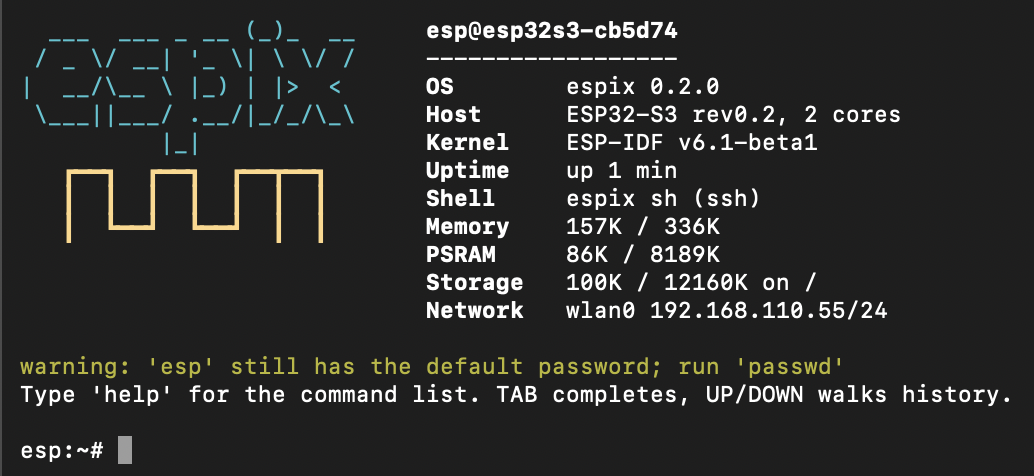
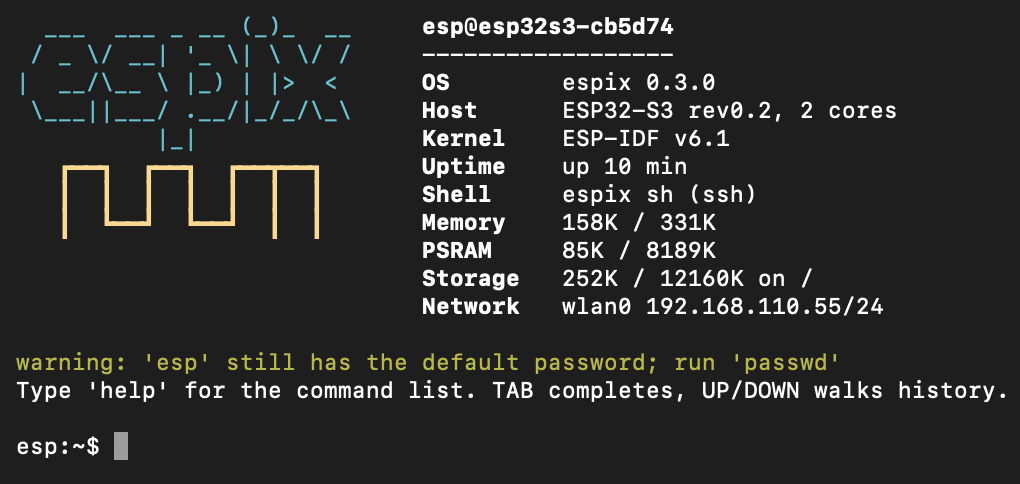
espix 0.3.0, on ESP-IDF v6.1
The upgrade itself was uneventful in the ways that count: sdkconfig regenerated
byte-identical across all thirteen CONFIG_ESPIX_* values, dependencies.lock
unchanged, the littlefs patch still applying, and no espix warnings. All three
registry components were already pinned at their newest published release, so
nothing moved under us there either.

The one thing the plan did not anticipate: the firmware build failed, and the
apps were why. Each project under apps/ is a separate IDF project with its own
build/ and sdkconfig, and `idf.py fullclean` does not reach them -- the error
names the version mismatch but not where it lives. That is now in README's
*Updating later* with the two-line fix, since it will bite anyone who upgrades.

The beta1-to-v6.1 changelog was read rather than guessed at, which settled the
question the upgrade actually raises: no VFS chmod hook was added, no chmod()
fix, no LittleFS changes at all, no adjtime() fix, nothing on the signal
vocabulary. Every UPSTREAM.md workaround stands, and the file now says so with
the evidence.

Two changelog lines were worth testing rather than assuming, and both are clean:
the PSA crypto driver hardening (the SSH server is entirely PSA, and /etc/passwd
on the device was hashed by the *old* build -- that hash still verifies), and
the libc stdio file-descriptor mapping fix (an app's printf still reaches the
SSH client, kernel logs still reach serial -- opposite directions through the
same mechanism).
[…]

diff --git a/components/espix_time/include/espix_time.h b/components/espix_time/include/espix_time.h
@@ -84,8 +84,9 @@ size_t espix_time_zone(char *buf, size_t len);
 
 /*
  * Change the timezone, optionally writing it to /etc/timezone so it survives a
- * reboot. `tz` is a POSIX TZ string, not a zoneinfo name -- see the comment in
- * the shipped /etc/timezone.
+ * reboot -- the file does not exist until then, and the compiled-in default is
+ * UTC. `tz` is a POSIX TZ string, not a zoneinfo name; `timedatectl
+ * set-timezone` with no argument documents the format.
  */
 esp_err_t espix_time_set_zone(const char *tz, bool persist);
 

diff --git a/components/espix_kernel/include/espix_kernel.h b/components/espix_kernel/include/espix_kernel.h
@@ -18,7 +18,7 @@ extern "C" {
 #endif
 
 #define ESPIX_VERSION_MAJOR 0
-#define ESPIX_VERSION_MINOR 2
+#define ESPIX_VERSION_MINOR 3
 #define ESPIX_VERSION_PATCH 0
 
 /*

diff --git a/README.md b/README.md
@@ -22,7 +22,7 @@ and [UPSTREAM.md](docs/UPSTREAM.md) for defects that belong to ESP-IDF.
 ## Status
 
 Early, but running on hardware. Verified on an ESP32-S3 (16MB flash, 8MB octal
-PSRAM) with ESP-IDF v6.1-beta1: LittleFS mounted as the real `/`, a
+PSRAM) with ESP-IDF v6.1: LittleFS mounted as the real `/`, a
 transport-agnostic shell with 37 commands, a process table, and — the point of
 the exercise — an app cross-compiled on a PC, copied over as a file, and loaded
 and executed at runtime with argv and an exit status.
@@ -38,11 +38,12 @@ picture of what is and is not implemented, see the
 
 ## Getting started
 
-**Requires ESP-IDF v6.1**, checked out by tag. It is still a beta, so a fresh
-`install.sh` gives you 5.x or 6.0 unless you ask for it — and those will not
-work: espix's SSH and password hashing are written against PSA Crypto, which
-arrives with Mbed TLS 4.x in 6.1. Older releases are refused up front rather
-than failing halfway through a compile.
+**Requires ESP-IDF v6.1**, checked out by tag. Older releases will not work:
+espix's SSH and password hashing are written against PSA Crypto, which arrives
+with Mbed TLS 4.x in 6.1, and `espix_kernel` names `CHIP_ESP32S31`, added in the
+same release. `main/idf_component.yml` declares `idf: ">=6.1"`, so an older one
+is refused with a single clear line rather than failing halfway through a
+compile.
 
 ```bash
 . $IDF_PATH/export.sh
@@ -75,6 +76,20 @@ idf.py -p /dev/ttyUSB0 storage-flash    # WARNING: replaces the whole rootfs
 
 Keeping them separate is deliberate: reflashing firmware should not destroy what
 is on the device.
+
+**After changing ESP-IDF versions, clean twice.** `idf.py fullclean` covers the
+firmware, but each project under `apps/` is a *separate* IDF project with its
+own `build/` and `sdkconfig`, and they are not reached by it:
+
+```bash
+idf.py fullclean && rm -f sdkconfig
+rm -rf apps/*/build apps/*/sdkconfig
+```
+
+Without the second line the app build fails with `'.../python/vX/venv/bin/python'
+is currently active while the project was configured with '.../vY/...'`, which
+names the problem but not where it lives. Both `sdkconfig` files are generated
+from the tracked `sdkconfig.defaults*`, so deleting them loses nothing.
 
 ### Board variants
 
@@ -173,9 +188,13 @@ inside that window — and is the sort of thing worth reading the reasoning on
 before changing it; see **Networking and time** in
 [docs/ROADMAP.md](docs/ROADMAP.md#networking-and-time).
 
-`/etc/timezone` holds a **POSIX TZ string**, not a zoneinfo name — espix ships
-no tzdata, so the rules live in the string: `SAST-2`, `EST5EDT,M3.2.0,M11.1.0`,
-or `UTC0` (the offset is not optional). `timedatectl set-timezone` writes it.
+**The default zone is UTC**, and there is no `/etc/timezone` until you set one —
+`timedatectl set-timezone` writes the file, the same way `wifi connect` writes
+`/etc/wifi.conf`. It holds a **POSIX TZ string**, not a zoneinfo name, because
+espix ships no tzdata and the rules have to live in the string: `SAST-2`,
+`EST5EDT,M3.2.0,M11.1.0`, or `UTC0` (the offset is not optional). Run
+`timedatectl set-timezone` with no argument for the format, including why the
+sign is inverted.
 
 ### Copying files on and off
 

diff --git a/docs/UPSTREAM.md b/docs/UPSTREAM.md
@@ -7,7 +7,12 @@ someone else's to fix, and a future IDF release may remove the need for the
 workaround — at which point it is useful to know exactly what the workaround was
 for.
 
-Verified against ESP-IDF v6.1-beta1 and xtensa-esp-elf GCC 15.2 unless noted.
+Verified against ESP-IDF v6.1 and xtensa-esp-elf GCC 15.2 unless noted.
+
+Re-checked against the v6.1 release: the beta1-to-v6.1 changelog adds no VFS
+`chmod` hook, no `chmod()` fix, no LittleFS changes at all, no `adjtime()` fix,
+and nothing touching the signal vocabulary or FreeRTOS-Plus-POSIX -- so every
+entry below still stands and every workaround is still load-bearing.
 
 ## ESP-IDF
 

diff --git a/docs/ARCHITECTURE.md b/docs/ARCHITECTURE.md
@@ -5,7 +5,7 @@ non-obvious from the code, and the ones that were verified against ESP-IDF
 rather than assumed.
 
 Target of record for this skeleton: **ESP32-S3, 16MB flash, 8MB octal PSRAM**,
-on **ESP-IDF v6.1-beta1**.
+on **ESP-IDF v6.1**.
 
 ## Component graph
 
